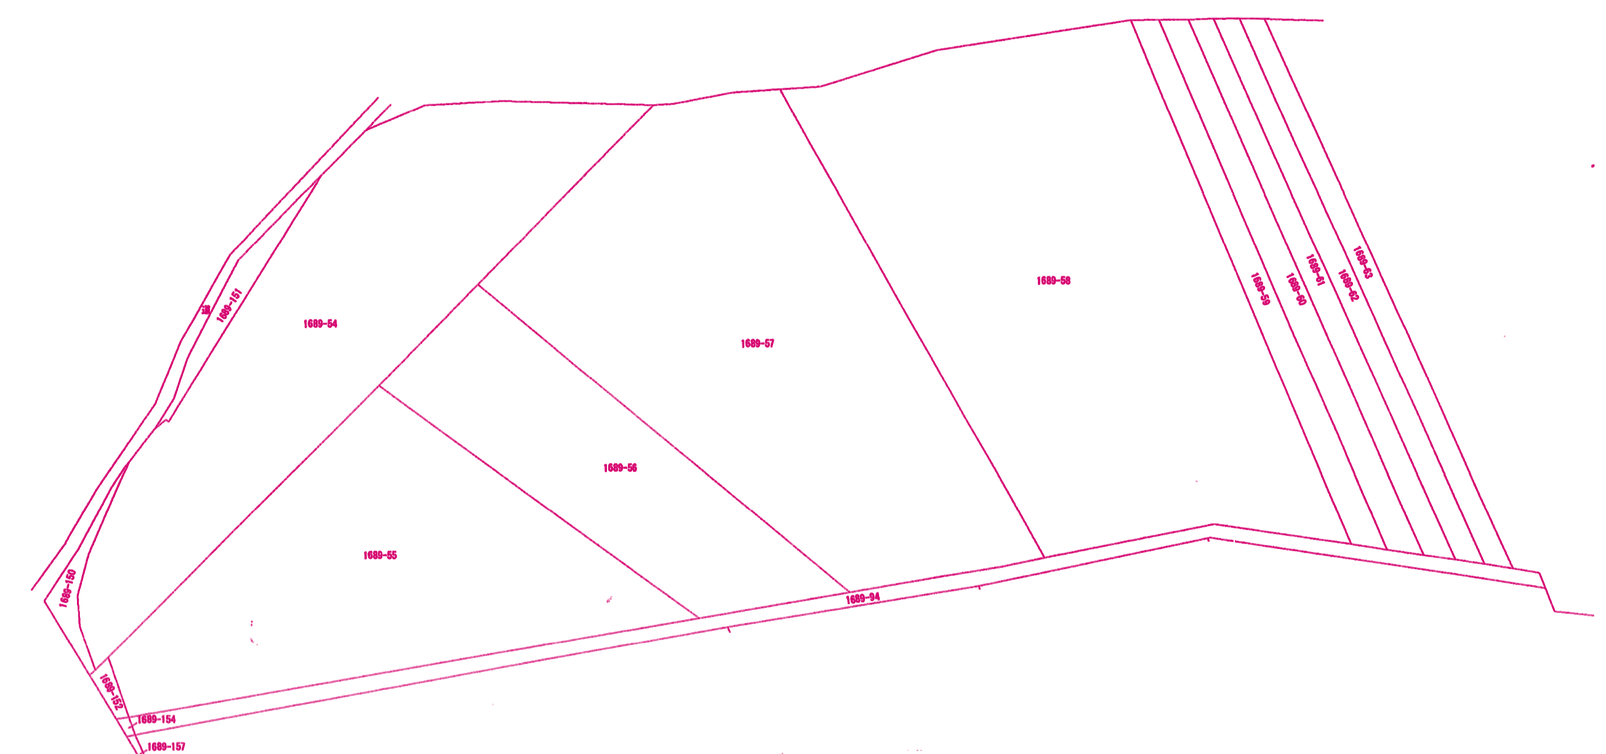
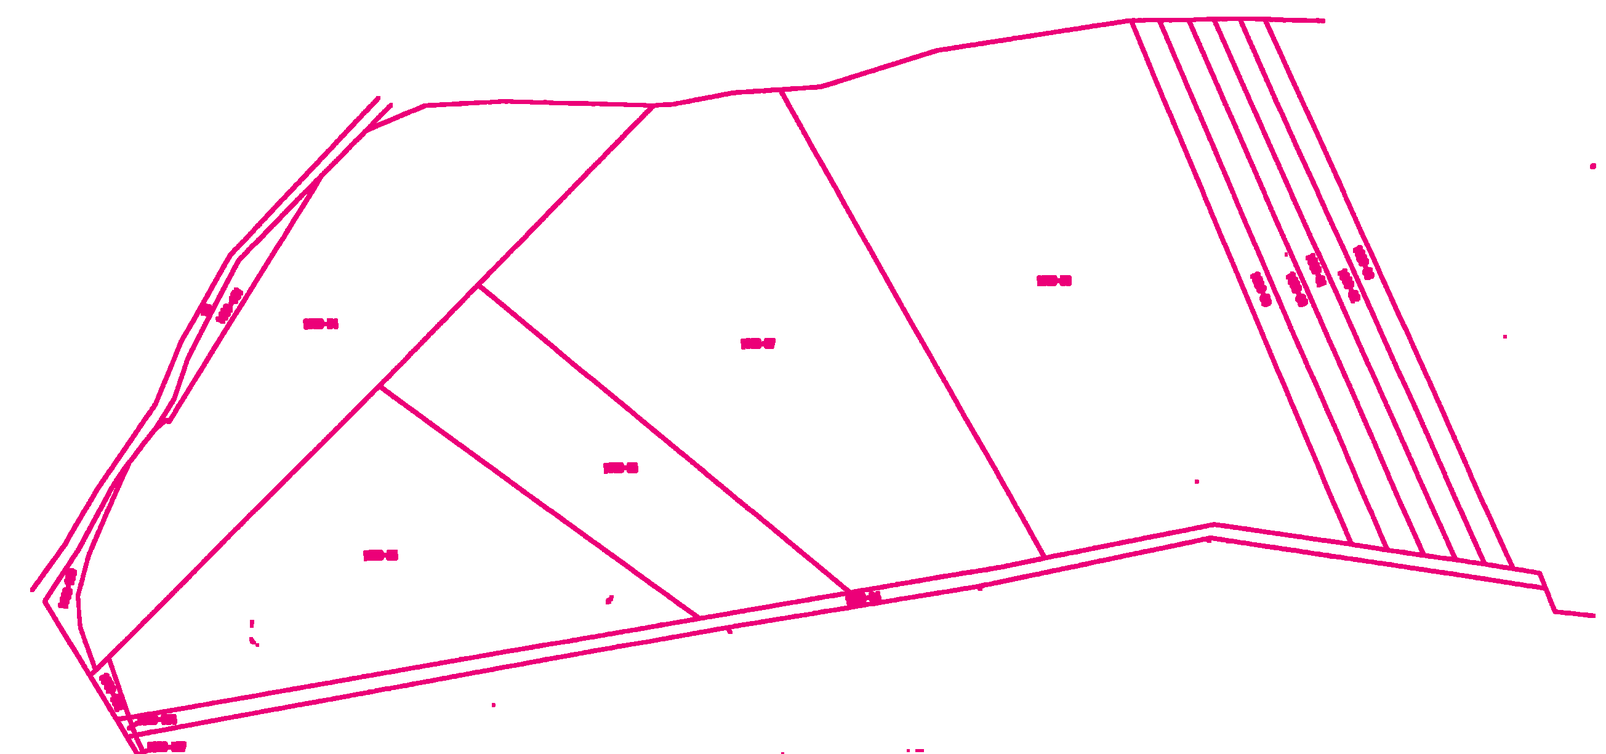
物件切替で「敷地を調整」モードが解除されないバグを修正＋negura公図オーバーレイの視認性改善
switchSite() が kouzuAdjustMode・deAdjustMode はリセットしていたのに
siteAdjustMode だけ漏れており、調整中のまま物件を切り替えると切替先の敷地が
いきなりドラッグ可能な状態で出て、誤ドラッグが localStorage へ自動保存される
（DESIGN.md §9「switchSite() はリセット忘れの常習箇所」の4件目）。

ヨコテン: 同じ機構で 📏距離計測の実測線(rulerLayer)も前物件のものが残るのを
新規発見し同コミットで修正（道具の武装状態 measureActive は意図的に維持）。
恒久化: DESIGN.md §9 に「調整モードは3つ・全部switchSiteでOFF」の対応表を新設。

あわせて data/negura_kouzu.png の線を5x5膨張（実寸0.39m相当）。初版は縮小表示で
ほぼ見えず、腱さんが公図を手で位置合わせするという本来の用途に使えなかったため。

DESIGN.md §12（物件データの一覧・新物件を足す時の工程・kouzuPink.baseRot・
登記の地積が無い物件の扱い）を新設。WORKLOG/BUGLOG 同期。消込表 課題#635。

diff --git a/index.html b/index.html
@@ -2283,6 +2283,19 @@ function switchSite(id){
     const ctrl=document.getElementById('deCtrl_'+region); if(ctrl) ctrl.style.display='none';
   });
   deHandleLayer.clearLayers();
+  // 2026-09-19：「敷地を調整」モードそのものも物件ごとの状態。すぐ上のD/E個別調整(deAdjustMode)と
+  // updateKouzuToggleUI()のkouzuAdjustModeは同じ理由で既にリセット済みだったのに、siteAdjustModeだけが
+  // 漏れていた（同じ「switchSite()がリセットし忘れる」機構＝DESIGN.md §9 の4件目）。調整中のまま物件を
+  // 切り替えると、新物件の敷地ポリゴンがいきなりドラッグ可能・参照地番の破線つきで出てしまい、
+  // 誤ドラッグで新物件の配置が壊れてlocalStorageへ自動保存される（＝D/Eで警戒したのと同じ事故）。
+  // drawSite()より前に置くこと（drawSiteRefs()がこのフラグを見る）。
+  siteAdjustMode=false;
+  const sAdjBtn=document.getElementById('siteAdjBtn'); if(sAdjBtn) sAdjBtn.textContent='敷地を調整';
+  const sAdjCtrl=document.getElementById('siteCtrl'); if(sAdjCtrl) sAdjCtrl.style.display='none';
+  siteRefLayer.clearLayers(); map.removeLayer(siteRefLayer);
+  // ヨコテン：📏距離計測の描かれた実測線も前物件のものが地図に残っていた（同じ機構）。
+  // 道具の武装状態(measureActive)はタブ・物件を横断する道具なので維持し、描画だけを消す。
+  clearMeasure();
   // D/E面積表示パネル：SITE_XFORM確定後（上のbuildSite()の後）に呼ぶこと。物件ごとに有無が違うので
   // 表示/非表示を切り替える。updateSubAreaToggleUI()（#deAccuracyHintの文言を
   // SITE.subAreaSets.DEから生成する）より前に置き、新物件の値が確定してから読ませる。

diff --git a/docs/BUGLOG.md b/docs/BUGLOG.md
@@ -65,3 +65,4 @@
 - 2026-08-22 | 平坦度タブで「2H影響ラインを重ねる」を使うと2つの問題があった：①基準標高ライン（黒太線に変更前は赤太線）と崖の2H影響ライン（赤）が同色で混ざって見分けがつかない ②2H影響ラインが緑・青の色分けセルの下に埋もれて見えないことがある。腱さん報告「基準標高ラインも赤で混ざっちゃう」「一番手前に表示して」 | 原因: ①基準標高ラインの色`#ff2d2d`が崖側の2H影響ライン色と同系の赤だった ②`drawFlat()`はスライダー操作等で呼ばれるたびに`flatLayer`へ新しい要素を積み直すが、`bandLayer`は先に地図へ追加済みのため、Leafletの描画順（後から追加した要素が上）により再描画のたびに埋もれ直す。トグルON直後は`map.addLayer(bandLayer)`が最後に呼ばれるため一時的に正しく見えるが、その後のあらゆる`drawFlat()`再実行（閾値スライダー・基準点変更等）で再度埋もれる | 94c67f2の次コミット | #実装 @jissou ヨコテン:済2件+要判断1件(①基準標高ラインの色`#ff2d2d`を全参照箇所4件grepで棚卸しし黒へ統一（凡例2箇所・ヒント文言・コメント）②`drawFlat()`の最後に`bandLayer.bringToFront()`を集約し呼び出し箇所ごとの個別対応を回避（`L.layerGroup`は`bringToFront()`を持たないため`L.featureGroup`へ変更・API互換を確認）。**要判断で残した1件**: 平坦度タブ自体の「傾斜地/超過」区分の色(`FLAT_COLORS.over`=`#d92645`、`CUTFILL_COLORS[3]`=`#e53935`→`#6b0a0a`グラデ)も崖側の赤系(`#ff3b6b`等)と近く、同じ「赤の衝突」機構が起きうるが、こちらは平坦度機能全体で最初から使われている確立済みの配色（凡例・過去のエクスポート等に浸透）のため、基準ラインのような単独の線と違い勝手に変更せずオーケストレータ経由で腱さんに確認要否を報告) グローバル:不要(このアプリ固有の配色設計)
 - 2026-08-22 | X/Y敷地分割パネルで「X区画140坪」を目標面積の逆算ボタンで指定すると、割合が16.1%になり「上の段と下の段を合わせても140坪もある？何で計算してる？バグってない？」と腱さんに報告された | 原因: 押していたのは①「この面積になる%へ反映」(`applyDeTargetArea`、生面積の単純な比率＝仕様どおり正しい計算)で、隣の②「この使える面積になる%へ反映」(`applyDeTargetUsable`、使える面積で逆算)と紛らわしい文言だった。ロジック自体にバグは無く、UIがどちらのボタンか区別しにくかったことが原因（同日のBUGLOG#60のヨコテン確認時にはこの2ボタンを「同一パネル内で隣の入力欄に直結し文脈が一意」として対象外と判定していたが、実際の利用でその判定が誤りだったと判明した） | 266391d | #実装 @jissou ヨコテン:済0件（"反映"ボタンはgrepでこの2つのみ、他に同型の紛らわしいボタン対は無し） グローバル:済(「隣接する同系統ボタンの違いをtitle属性(ホバー)だけに頼ると、クリック前に気づかれない。ラベル自体に差分を明記する」をkaihatsu-policy NOTES.mdへ追記案。ワーカーはスキルファイル自体は変更しない＝既存BUGLOG#29/#36と同じ扱い)
 - 2026-08-22 | 直前の「上の段・D/E非表示化」改修（ef54a63）で、がけ判定タブの2H影響帯描画がD/Eの土地を対象から外し、D/E上または境界付近にある崖が検出されなくなった（度グレード）。腱さん報告「2H影響帯描画　DEが対象から外れてる　デグレードしてる」 | 原因: 「D/Eを購入・評価の対象にするか」（表示・面積集計・価格シミュ）と「D/Eという土地が物理的に実在するか」（がけ判定の断面生成・セル走査範囲）という**性質の異なる2つの意味**を、`deSubAreaPolys()`という単一の関数に兼用させてしまい、`SHOW_DE_REGIONS=false`で意味1を隠したら意味2まで一緒に消えた。崖は購入対象かどうかに関わらず現地に実在するため、この2つは独立して扱う必要があった。さらに副次バグとして、`updateDeExtentUI()`が`SHOW_DE_REGIONS=false`時に`deRegionAdj`（D/Eの緯度経度オフセット）の読み込み自体を早期returnでスキップしており、修正後も座標が起動時プレースホルダ`{lat:0,lon:0}`（赤道付近）に固定され、がけ判定が無関係な場所を誤って走査する二次災害を実機テストで発見した | 次コミット | #設計 @jissou ヨコテン:済6件+副次1件(`deSubAreaPolys()`の全呼び出し箇所をgrepで棚卸しし、①購入・評価系〔表示・面積集計・価格シミュ・CSV出力の参照線〕は非表示のまま維持②物理的な土地系〔`generateBand()`の断面生成範囲・`landIntervalA()`の土地縁判定・`drawCellsAndAreas()`のセル走査bbox・`clipToSite()`・`fitToBand()`の5+1箇所〕は新設`deTerrainPolys()`〔SHOW_DE_REGIONSの影響を受けない〕へ切替。副次バグの`updateDeExtentUI()`は表示制御とデータ読み込みを分離) グローバル:済(「新しい状態変数(X)を導入して既存の値を非表示にする時、その値が“2つ以上の異なる意味”で使われていないか（例:見せる/見せないの表示判断 vs 物理的に存在するかどうかの計算判断）を先に切り分ける。1つの関数・1つのフラグで両方を隠すと、片方だけ隠したいのに両方消える」をkaihatsu-policy NOTES.mdへ追記。yokotenスキルのモード4（新概念導入時の逆引き棚卸し）の実例としても追加候補)
+- 2026-09-19 | 「敷地を調整」モードをONにしたまま物件を切り替えると、切替先でも調整モードが解除されず（ボタンが「調整を終了」・調整パネル表示・参照地番の破線・敷地ポリゴンがドラッグ可能）、そのまま地図をドラッグすると**切替先の物件の配置が動いてlocalStorageへ自動保存される**（新物件 negura の追加作業で、ワーカーが物件切替の無回帰確認中に発見） | 原因: `switchSite()` が `kouzuAdjustMode`（`updateKouzuToggleUI()`経由）と `deAdjustMode{D,E}` は「前物件の調整モードを引き継がない＝残ると誤ってドラッグできてしまう」という明示的な理由でリセットしていたのに、**同じ理由が同じだけ当てはまる `siteAdjustMode` だけが列挙から漏れていた**。DESIGN.md §9 に「`switchSite()`はリセット忘れの常習箇所」として既に記録のある機構（POINTS→picks/SAMPLES→cliffLayer に続く4件目）。修正は既存の `deAdjustMode` ブロックと同じ型で `siteAdjustMode=false`＋ボタン文言・パネル表示・`siteRefLayer` のクリアを `drawSite()` より前に追加（`drawSiteRefs()` がこのフラグを読むため順序が要る）。実機検証: 調整ON（参照地番6要素・レイヤーon）→ `switchSite()` → mode=false・ボタン「敷地を調整」・パネル none・refs 0・レイヤーoff を実測。全6物件（hannan/camp/furuya/mikokai/hirai/negura）で調整モードのON/OFFが従来どおり動き、面積（526/60/60/657/2876/15582㎡）に変化が無いことも確認 | (本コミット) | #実装 @jissou ヨコテン:済1件（同じ「switchSite()が物件別の状態をリセットし忘れる」機構で、📏距離計測の描かれた実測線(`rulerLayer`)も前物件のものが地図に残り続けることを新規発見し、同じコミットで `clearMeasure()` を追加。道具の武装状態 `measureActive` はタブ・物件を横断する道具なので意図的に維持し描画だけ消す。他に点検した物件別モード: `cdeAnchorMode`/`cdeAnchorLayer`＝上の段(`SHOW_UPPER_TIER=false`)のUIごと非表示で到達不能のため対象外、`refLineMode`・`pointPick`・`planeFocusMode`・`showCliffOnFlat`・`subAreaVariant`・`areaSelectState` は既にリセット済みを実コードで確認） 恒久化:済（DESIGN.md §9 に「調整モードは3つあり3つとも物件切替でOFFに戻す」対応表を新設。個別のフラグを覚える運用ではなく**表**にして、4つ目の調整モードを足す人が必ず目にする場所に置いた）

diff --git a/docs/DESIGN.md b/docs/DESIGN.md
@@ -353,8 +353,21 @@ html2canvas等の追加は「単一HTMLファイル・追加JS依存を増やさ
 | 物件切替 | 上記＋物件別の全状態 | `switchSite()` |
 | クリア各種 | それぞれの担当範囲 | `clearBand()` / `clearFlat()` / `clearPick()` |
 
-`switchSite()` は**リセット忘れの常習箇所**（POINTS→picks/SAMPLES→cliffLayer と3回にわたって
-別々のものを忘れていた）。**何かグローバル状態を新設したら、その場で `switchSite()` に追加する。**
+`switchSite()` は**リセット忘れの常習箇所**（POINTS→picks/SAMPLES→cliffLayer→siteAdjustMode/rulerLayer
+と4回にわたって別々のものを忘れていた）。**何かグローバル状態を新設したら、その場で `switchSite()` に追加する。**
+
+**「調整モード」は3つあり、3つとも物件切替でOFFへ戻す**（2026-09-19に `siteAdjustMode` の漏れを修正して
+揃った）。調整モードを持ち越すと、切替先の敷地・区画が**いきなりドラッグ可能な状態で出て、
+誤ドラッグが localStorage へ自動保存される**という同じ形の事故になる。
+
+| モード | 対象 | リセット箇所 |
+|---|---|---|
+| `kouzuAdjustMode` | 公図オーバーレイ | `updateKouzuToggleUI()`（`switchSite()`から呼ぶ） |
+| `deAdjustMode{D,E}` | D/E隣接筆 | `switchSite()` 内で明示 |
+| `siteAdjustMode` | 敷地本体＋参照地番(`siteRefLayer`) | `switchSite()` 内で明示（2026-09-19 追加。`drawSite()`より前に置くこと） |
+
+📏距離計測（`rulerLayer`）も同じ機構で前物件の実測線が残っていたため `clearMeasure()` を追加した。
+道具の武装状態（`measureActive`）はタブ・物件を横断する道具なので**維持する**（描画だけ消す）。
 
 ---
 
@@ -372,3 +385,62 @@ html2canvas等の追加は「単一HTMLファイル・追加JS依存を増やさ
 ## 11. 未着手・保留（腱さんの要望として存在するが未実装）
 
 - **2H影響帯の名前付き保存・呼び出し**（複数の測線パターンを保存して比較したい）。
+
+---
+
+## 12. 物件データ（`SITES`）— 登録済み物件と、新しい物件を足すときの型
+
+| id | 名前 | `shape` の素性 | 縮尺（`targetArea`）の根拠 |
+|---|---|---|---|
+| `hannan` | 函南 物件 | 区画図PNGの目視トレース | 区画図の表示面積 526㎡ |
+| `camp` | キャンプ場 管理棟（再建築） | 2.4×1.6mの矩形プレースホルダ | 60㎡（仮） |
+| `furuya` | 古屋 物件（崖下・再建築） | 同上 | 60㎡（仮） |
+| `mikokai` | 未公開 物件（柏谷） | 公図PDFの自動トレース | **登記の地積 657㎡** |
+| `hirai` | 平井 物件（A+B+C） | **分割計画図の座標求積表**（最も強い） | 図面の求積値 2876.50㎡ |
+| `negura` | negura キャンプ場（全敷地 1689-54〜63） | 公図PNGの自動トレース（10筆の和集合） | **航空写真合わせの概算 15,582㎡（登記の地積ではない）** |
+
+### `shape` の座標系は物件ごとに素性が違う（混ぜないこと）
+`buildSite()` が `targetArea` へ面積正規化するため、**`shape` の単位は相対でよい**（函南は画像px、
+柏谷は公図px）。一方 `hirai` と `negura` は**真北基準の実メートル**で持っており、この2つだけは
+`targetArea` を実面積に合わせれば倍率が 1.0 になる（＝`siteAdj.scale` が素直に「ここからの微調整」に
+なる）。新規追加は**実メートルに直してから入れる**方を推奨する。
+
+### 新しい物件を足すときの工程（negura 2026-09-19 で確立）
+1. **トレース**（公図の線 → 頂点列）。`_input/<物件>/trace_*.py`。
+   線を二値化 → 白領域のラベリングで「閉じた筆」を取り出す → 和集合の輪郭を Douglas-Peucker。
+   **原画像に重ねた検証画像を必ず出して目視する**（`trace_check.png`）。
+2. **較正**（公図px → 実メートル・真北）。ここが一番外しやすい。
+   negura では公図に縮尺の記載が無かったため、2段階で外部の実測へ橋渡しした：
+   - ① 腱さんが撮った「航空写真に公図を重ねて印刷したもの」の写真へ、公図の線が**周囲より暗い画素**に
+     最もよく載る相似変換を総当たりで探索（`opt_heic.py`）。スコアが単峰になることを
+     スケール走査で確認してから採用する（平坦なら合っていない）。
+   - ② その写真を、地理院オルソの**人工物の角**（ソーラー発電所の3隅・円形タンク）と最小二乗で合わせる。
+     残差をmで出し、独立な点対の距離比でも検算する。
+   - **公図は真北を向いているとは限らない**（negura は 13.97°時計回りに傾いていた）。
+     向きは「公図の紙が縦だから北」ではなく、必ず外部の実測から出すこと。
+3. **裏取り**。独立な情報源で位置を1つ確かめる（negura では既存物件 `camp`＝管理棟が
+   敷地の西端頂点から 8.0m に落ちることを確認した）。
+4. `SITES` に1エントリ追加するだけ。物件セレクタは `Object.values(SITES)` から自動生成される。
+
+### `kouzuPink`（公図オーバーレイ）と `baseRot`（2026-09-19 追加）
+公図スキャンを地図に重ねて腱さんが手で位置合わせするための機能（`hirai` が初出）。
+`{url, basePxScale, centerLat, centerLon, baseRot}` を物件が持てば有効になる。
+- `baseRot` は**公図の紙が真北からどれだけ傾いているかの初期値**（負が時計回り）。
+  `defaultKouzuAdj()` が `k.baseRot||0` で読む1箇所だけが消費者。**未指定の物件は従来どおり 0**。
+- 初期値はあくまで出発点で、正ではない。最終的な位置・角度・倍率は腱さんが
+  「敷地を調整」「公図を調整」で決める（この2つのUIは `siteAdj` / `kouzuAdj` として
+  **物件ごとに独立して localStorage に保存される**）。
+
+### ⚠ 登記の地積が手元に無い物件の扱い
+`targetArea` は面積の**正本**であり、平坦度の面積一覧・造成コスト・価格試算がすべてこの値に比例する。
+negura は登記事項証明書が無いため航空写真合わせの概算（誤差5%想定）を入れてあり、
+`SITES.negura` のコメントと消込表 [課題#635] に「登記の数字ではない」と明記してある。
+**地積が入手できたら差し替える**（形は変えず `targetArea` の数字だけ差し替えれば縮尺が直る）。
+柏谷（`mikokai`）でも「トレース面積と登記の地積が一致しない」問題が出ており（2026-07-24）、
+**面積の出どころをコメントに書き残すのはこのアプリの決まり**とする。
+
+### 敷地が広い物件は標高の事前キャッシュを検討する
+`FLAT_GRID` は格子1mで敷地bbox＋8mを覆う。negura は 220m×111m ＝ 約3万点で、
+アプリは3,000点超で「そのまま取るか粗くするか」を確認してくる。平井と同じ事前キャッシュ
+（`SITE.elevCache`）を作れば一発だが、**有効判定は `siteAdj` の完全一致**なので、
+腱さんが敷地を1回でも動かすと使われなくなる。**位置が確定してから作ること。**

diff --git a/docs/WORKLOG.md b/docs/WORKLOG.md
@@ -1580,3 +1580,13 @@ click-loggerとLeaflet `map.latLngToContainerPoint()`で正確な変換式を実
   README.mdが存在しなかったため新規作成し「正本: 仕様と設計はdocs/DESIGN.md・
   時系列はdocs/WORKLOG.md・不具合はdocs/BUGLOG.md」を宣言。docs_audit.py実行し
   [52_kouteisa]の警告0件を確認。
+- 2026-09-19 | **新物件 negura（キャンプ場 全敷地 1689-54〜63）を追加**（消込表 課題#635。腱さん「物件追加。公図敷地の微調整はおれがやる、そこまで進めて」）。
+  **トレース**（`_input/negura/trace_negura.py`）: 公図PNGの筆界線を輝度で二値化→1px膨張でアンチエイリアスの隙間を閉じ→白領域のラベリングで「閉じた筆」を抽出し、目視で読んだ地番との対応表で10筆（1689-54/55/56/57/58＋東側の細長い5筆59〜63）を同定。和集合の輪郭をDouglas-Peucker(1.5px)で51頂点に簡略化。各筆の面積合計は外周の97.5%（差は筆界線の幅ぶん）。`trace_check.png`（原画像に赤=外周・緑=各筆を重ねたもの）で全筆が実線に一致することを目視確認。
+  **較正**（この公図には縮尺の記載が無いため2段階で外部の実測へ橋渡しした）: ①`opt_heic.py`＝腱さんが撮った「航空写真+公図」の印刷物写真に対し、公図の線が**周囲21x21平均より暗い画素**に最もよく載る相似変換を総当たり探索。scale 0.66〜0.80を0.01刻み・回転9.5〜13.1°を0.3刻みで走査し **0.72〜0.73／時計回り11.2°** に鋭い単峰（スコア21〜22、外れると13〜16へ急落＝合っていることの根拠。平坦なら合っていない）。②その写真を地理院オルソ(seamlessphoto z19)へ、ソーラー発電所の3隅＋円形タンク中心の4点で最小二乗の相似変換＝**0.13304 m/px・時計回り2.77°・残差0.6〜2.4m**（独立な3組の点対の距離比でも 0.1334/0.1333/0.1329 m/px と一致）。⇒ **公図1px=0.09645m／公図の紙は真北から13.97°時計回りに傾いている**。
+  **裏取り**: 既存物件『キャンプ場 管理棟』（腱さんが手で置いた 35.111704/139.004726）が、今回の敷地の**西端の頂点から8.0m**に落ちた（公図トレースと管理棟は互いに独立な情報源）。
+  **出力**: `SITES.negura`＝真北基準の実メートル51頂点・`targetArea` 15582.2㎡（4,714坪）・`anchor` 35.1116863/139.0059694・`refShapes` に10筆（「敷地を調整」中だけ破線表示）・`kouzuPink`＝`data/negura_kouzu.png`（公図の線だけを抜いた背景透過画像。basePxScale 0.096454／centerLat 35.1117252／centerLon 139.0061051／**baseRot -13.97**）。**⚠ `targetArea` は登記の地積ではなく航空写真合わせの概算**（誤差5%想定）。地積の入手を課題#635で腱さんへ確認中。
+  **アプリ側の変更（ワーカー実装・commit 28f05bc）**: `SITES` に1エントリ追加／`defaultKouzuAdj()` に `rot:k.baseRot||0` を追加（公図の紙の傾きを初期値として渡す新フィールド。既存4物件は未指定＝0で従来と完全同一。ヨコテン:済0件＝kouzuPinkの初期値を組み立てるのはこの1関数のみと全文grepで確認）／`.gitignore` に `!data/negura_kouzu.png`。
+  **実機検証**（Browser pane・preview_start static:8934）: 物件セレクタに出現／敷地15582㎡・51頂点で描画／10筆の破線と地番ラベル／公図オーバーレイが `kouzuAdj.rot=-13.97` で開き、CSS行列から回転≈13.9°時計回りを実測。**オーバーレイの公図外周が敷地ポリゴンと重なることを航空写真上で目視確認**（数値でも、公図px(1191,687)＝shape原点が siteAdj と 0.0m 一致することを確認）。無回帰: 既存5物件の敷地描画・面積（526/60/60/657/2876㎡）・hirai の `kouzuAdj.rot===0`。
+  **初回の公図オーバーレイが薄すぎて位置合わせに使えなかったため**、線を5x5膨張（実寸0.39m相当）して作り直した（210KB→40KB・視認性は実機で確認）。
+  **関連して直したもの（バグ1件）**: 「敷地を調整」ONのまま物件を切り替えると調整モードが解除されず、切替先の敷地を誤ドラッグして配置を壊しうる不具合を修正（`switchSite()` の `siteAdjustMode` リセット漏れ。DESIGN.md §9「リセット忘れの常習箇所」の4件目）。ヨコテンで📏距離計測の実測線残りも同時に修正。詳細は docs/BUGLOG.md。
+  カイシュウ5問:済／変更分類 B(仕様変更＝物件追加・DESIGN.md同コミット更新)＋A(上記バグ修正) | 次: 腱さんが「敷地を調整」「公図を調整」で位置・角度・倍率を確定 → その後に標高の事前キャッシュ（`SITE.elevCache`）を作る（敷地が220m×111m＝格子1mで約3万点あり、キャッシュの有効判定は`siteAdj`の完全一致なので位置確定前に作っても無駄になる）
